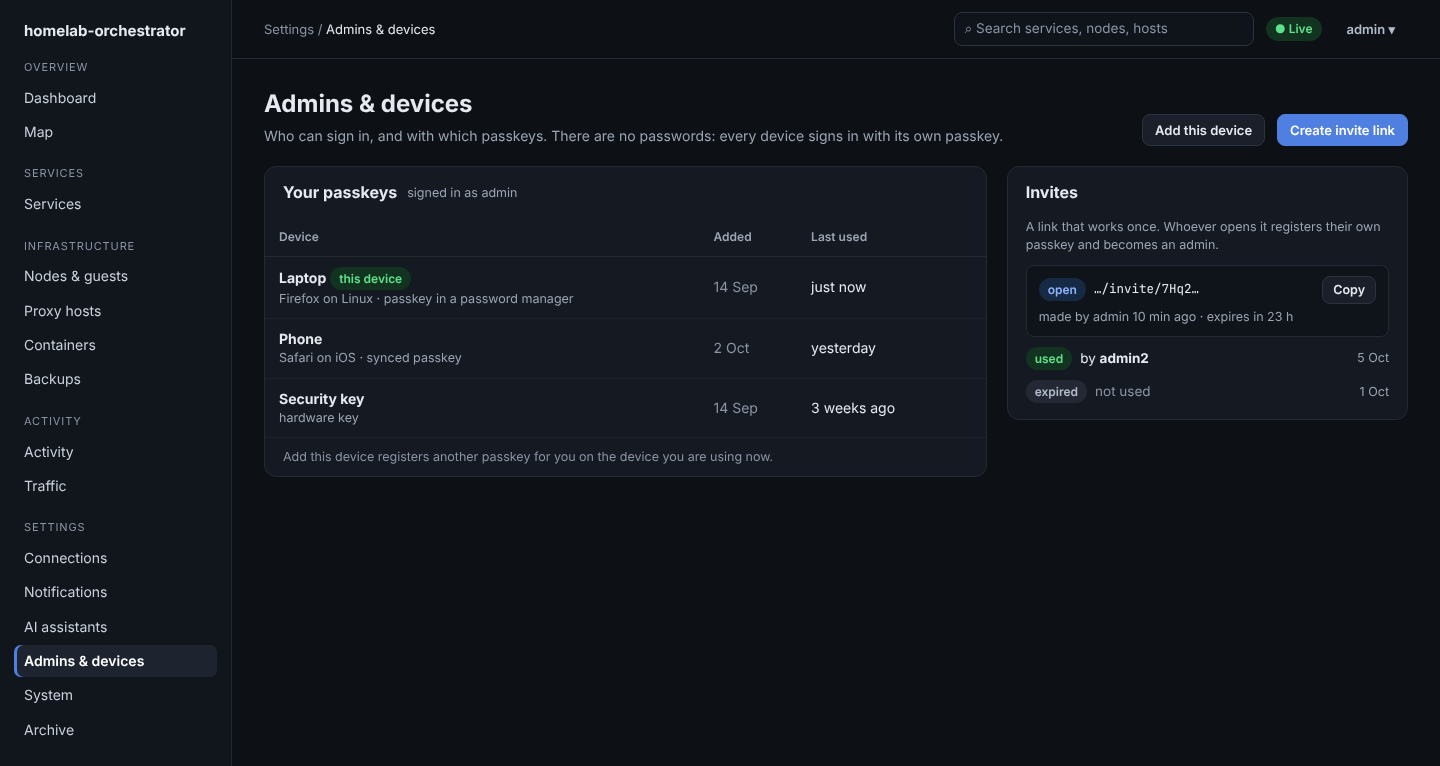
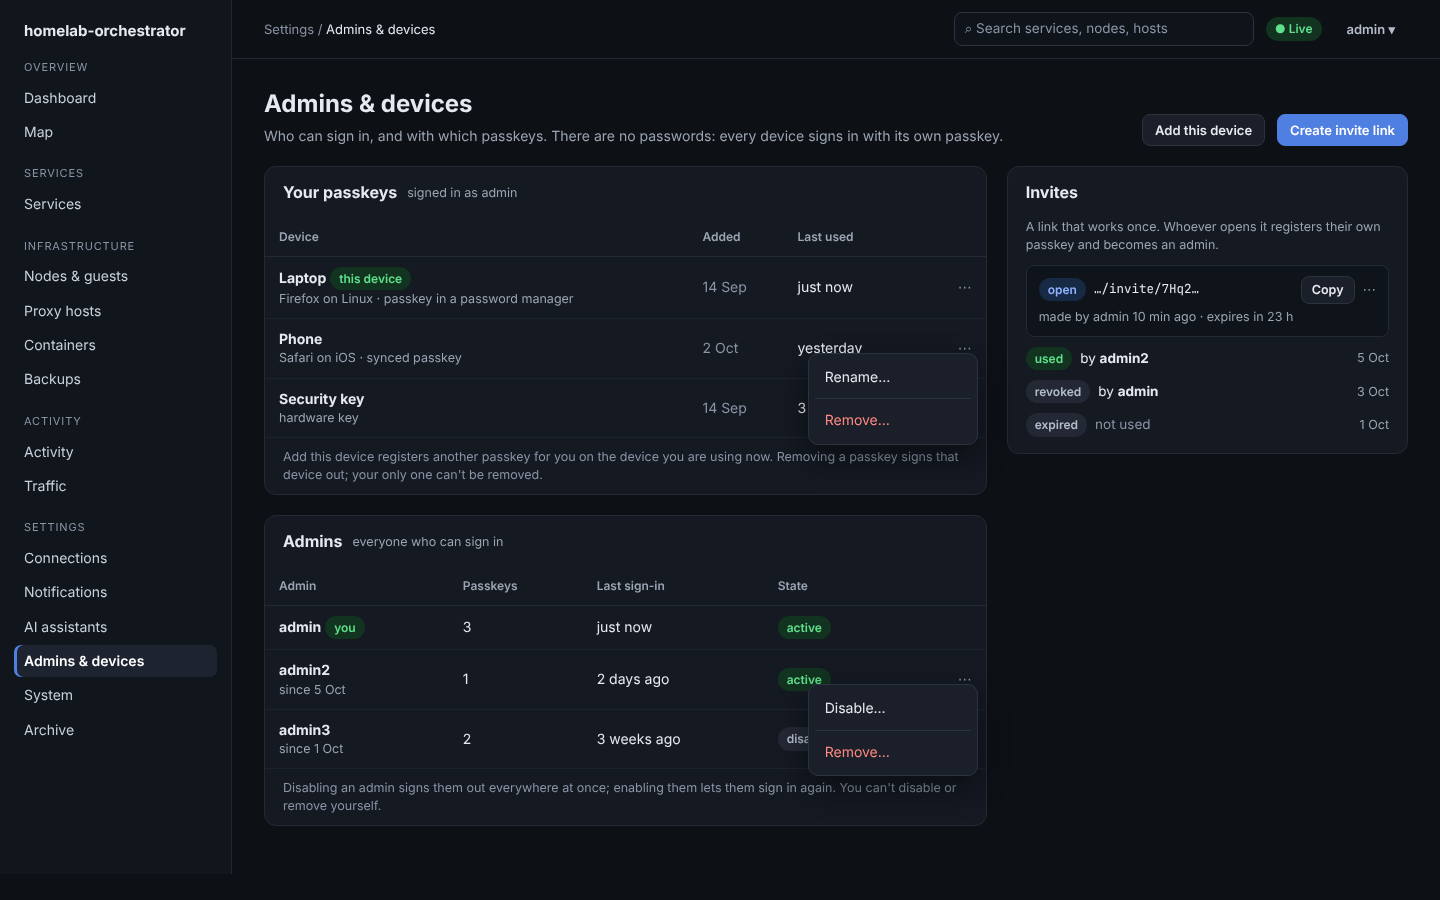
OR-56: the Admins card on Admins & devices
Every admin with their passkey count, last sign-in and state. ⋯ on
another admin: Disable… (confirm) or Enable, and Remove… (type the name
to confirm). Your own row has no ⋯.

- Approved wireframe: docs/design/wireframes/Admins (source, HTML,
  PNG). It also shows the ⋯ on passkeys and invites, and the "revoked"
  invite state.
- ui.js table: a `menuFor` option, for tables where only some rows get
  a ⋯.

Claude-Session: https://claude.ai/code/session_01GN4g3WgyD6DjEKAZRWkroa

diff --git a/docs/design/wireframes/source/Admins.dc.html b/docs/design/wireframes/source/Admins.dc.html
@@ -87,27 +87,52 @@ tr.selrow td{background:#16233a}
         <button class="btn primary" type="button">Create invite link</button>
       </div>
       <div style="display: flex; flex-wrap: wrap; gap: 20px; align-items: flex-start">
-        <section class="card" style="flex: 2 1 560px; min-width: 0">
+        <div style="flex: 2 1 560px; min-width: 0; display: flex; flex-direction: column; gap: 20px">
+        <section class="card">
           <div class="card-h"><h2>Your passkeys</h2><span class="sub">signed in as admin</span></div>
           <table>
             <thead><tr><th>Device</th><th>Added</th><th>Last used</th><th></th></tr></thead>
             <tbody>
-              <tr><td><strong>Laptop</strong> <span class="pill ok">this device</span><div class="sub">Firefox on Linux · passkey in a password manager</div></td><td class="faint">14 Sep</td><td>just now</td><td></td></tr>
-              <tr><td><strong>Phone</strong><div class="sub">Safari on iOS · synced passkey</div></td><td class="faint">2 Oct</td><td>yesterday</td><td></td></tr>
-              <tr><td><strong>Security key</strong><div class="sub">hardware key</div></td><td class="faint">14 Sep</td><td>3 weeks ago</td><td></td></tr>
+              <tr><td><strong>Laptop</strong> <span class="pill ok">this device</span><div class="sub">Firefox on Linux · passkey in a password manager</div></td><td class="faint">14 Sep</td><td>just now</td><td class="faint" style="text-align: right">⋯</td></tr>
+              <tr><td><strong>Phone</strong><div class="sub">Safari on iOS · synced passkey</div></td><td class="faint">2 Oct</td><td>yesterday</td><td style="text-align: right; position: relative"><span class="faint">⋯</span>
+                <div style="position: absolute; right: 8px; top: 34px; z-index: 2; width: 170px; background: #1a1f29; border: 1px solid #2c3340; border-radius: 10px; padding: 6px; box-shadow: 0 12px 30px rgba(0,0,0,.45); text-align: left">
+                  <div style="padding: 7px 10px; border-radius: 6px">Rename…</div>
+                  <div style="height: 1px; background: #2c3340; margin: 4px 0"></div>
+                  <div style="padding: 7px 10px; border-radius: 6px; color: #ff8a82">Remove…</div>
+                </div></td></tr>
+              <tr><td><strong>Security key</strong><div class="sub">hardware key</div></td><td class="faint">14 Sep</td><td>3 weeks ago</td><td class="faint" style="text-align: right">⋯</td></tr>
             </tbody>
           </table>
-          <div style="padding: 10px 18px; font-size: 12.5px; color: #8a94a5">Add this device registers another passkey for you on the device you are using now.</div>
+          <div style="padding: 10px 18px; font-size: 12.5px; color: #8a94a5">Add this device registers another passkey for you on the device you are using now. Removing a passkey signs that device out; your only one can't be removed.</div>
         </section>
+        <section class="card">
+          <div class="card-h"><h2>Admins</h2><span class="sub">everyone who can sign in</span></div>
+          <table>
+            <thead><tr><th>Admin</th><th>Passkeys</th><th>Last sign-in</th><th>State</th><th></th></tr></thead>
+            <tbody>
+              <tr><td><strong>admin</strong> <span class="pill ok">you</span></td><td>3</td><td>just now</td><td><span class="pill ok">active</span></td><td></td></tr>
+              <tr><td><strong>admin2</strong><div class="sub">since 5 Oct</div></td><td>1</td><td>2 days ago</td><td><span class="pill ok">active</span></td><td style="text-align: right; position: relative"><span class="faint">⋯</span>
+                <div style="position: absolute; right: 8px; top: 34px; z-index: 2; width: 170px; background: #1a1f29; border: 1px solid #2c3340; border-radius: 10px; padding: 6px; box-shadow: 0 12px 30px rgba(0,0,0,.45); text-align: left">
+                  <div style="padding: 7px 10px; border-radius: 6px">Disable…</div>
+                  <div style="height: 1px; background: #2c3340; margin: 4px 0"></div>
+                  <div style="padding: 7px 10px; border-radius: 6px; color: #ff8a82">Remove…</div>
+                </div></td></tr>
+              <tr><td><strong>admin3</strong><div class="sub">since 1 Oct</div></td><td>2</td><td>3 weeks ago</td><td><span class="pill off">disabled</span></td><td class="faint" style="text-align: right">⋯</td></tr>
+            </tbody>
+          </table>
+          <div style="padding: 10px 18px; font-size: 12.5px; color: #8a94a5">Disabling an admin signs them out everywhere at once; enabling them lets them sign in again. You can't disable or remove yourself.</div>
+        </section>
+        </div>
         <section class="card" style="flex: 1 1 320px; min-width: 0">
           <div class="card-h"><h2>Invites</h2></div>
           <div style="padding: 0 18px 16px; display: grid; gap: 10px; font-size: 13.5px">
             <div class="sub">A link that works once. Whoever opens it registers their own passkey and becomes an admin.</div>
             <div style="padding: 10px 12px; background: #0f131a; border: 1px solid #232a36; border-radius: 8px">
-              <div style="display: flex; align-items: center; gap: 8px"><span class="pill pending">open</span><span class="mono" style="overflow: hidden; text-overflow: ellipsis">…/invite/7Hq2…</span><button class="btn small" type="button" style="margin-left: auto">Copy</button></div>
+              <div style="display: flex; align-items: center; gap: 8px"><span class="pill pending">open</span><span class="mono" style="overflow: hidden; text-overflow: ellipsis">…/invite/7Hq2…</span><button class="btn small" type="button" style="margin-left: auto">Copy</button><span class="faint">⋯</span></div>
               <div class="sub" style="margin-top: 4px">made by admin 10 min ago · expires in 23 h</div>
             </div>
             <div style="display: flex; align-items: center; gap: 8px"><span class="pill ok">used</span><span>by <strong>admin2</strong></span><span class="sub" style="margin-left: auto">5 Oct</span></div>
+            <div style="display: flex; align-items: center; gap: 8px"><span class="pill off">revoked</span><span>by <strong>admin</strong></span><span class="sub" style="margin-left: auto">3 Oct</span></div>
             <div style="display: flex; align-items: center; gap: 8px"><span class="pill off">expired</span><span class="faint">not used</span><span class="sub" style="margin-left: auto">1 Oct</span></div>
           </div>
         </section>
@@ -117,7 +142,7 @@ tr.selrow td{background:#16233a}
 
 </div>
 </x-dc>
-<script type="text/x-dc" data-dc-script data-props='{"$preview":{"width":1440,"height":760}}'>
+<script type="text/x-dc" data-dc-script data-props='{"$preview":{"width":1440,"height":900}}'>
 class Component extends DCLogic {
   renderVals() {
     const cur = "Admins & devices";

diff --git a/docs/design/wireframes/Admins.html b/docs/design/wireframes/Admins.html
@@ -134,27 +134,52 @@ tr.selrow td{background:#16233a}
         <button class="btn primary" type="button">Create invite link</button>
       </div>
       <div style="display: flex; flex-wrap: wrap; gap: 20px; align-items: flex-start">
-        <section class="card" style="flex: 2 1 560px; min-width: 0">
+        <div style="flex: 2 1 560px; min-width: 0; display: flex; flex-direction: column; gap: 20px">
+        <section class="card">
           <div class="card-h"><h2>Your passkeys</h2><span class="sub">signed in as admin</span></div>
           <table>
             <thead><tr><th>Device</th><th>Added</th><th>Last used</th><th></th></tr></thead>
             <tbody>
-              <tr><td><strong>Laptop</strong> <span class="pill ok">this device</span><div class="sub">Firefox on Linux · passkey in a password manager</div></td><td class="faint">14 Sep</td><td>just now</td><td></td></tr>
-              <tr><td><strong>Phone</strong><div class="sub">Safari on iOS · synced passkey</div></td><td class="faint">2 Oct</td><td>yesterday</td><td></td></tr>
-              <tr><td><strong>Security key</strong><div class="sub">hardware key</div></td><td class="faint">14 Sep</td><td>3 weeks ago</td><td></td></tr>
+              <tr><td><strong>Laptop</strong> <span class="pill ok">this device</span><div class="sub">Firefox on Linux · passkey in a password manager</div></td><td class="faint">14 Sep</td><td>just now</td><td class="faint" style="text-align: right">⋯</td></tr>
+              <tr><td><strong>Phone</strong><div class="sub">Safari on iOS · synced passkey</div></td><td class="faint">2 Oct</td><td>yesterday</td><td style="text-align: right; position: relative"><span class="faint">⋯</span>
+                <div style="position: absolute; right: 8px; top: 34px; z-index: 2; width: 170px; background: #1a1f29; border: 1px solid #2c3340; border-radius: 10px; padding: 6px; box-shadow: 0 12px 30px rgba(0,0,0,.45); text-align: left">
+                  <div style="padding: 7px 10px; border-radius: 6px">Rename…</div>
+                  <div style="height: 1px; background: #2c3340; margin: 4px 0"></div>
+                  <div style="padding: 7px 10px; border-radius: 6px; color: #ff8a82">Remove…</div>
+                </div></td></tr>
+              <tr><td><strong>Security key</strong><div class="sub">hardware key</div></td><td class="faint">14 Sep</td><td>3 weeks ago</td><td class="faint" style="text-align: right">⋯</td></tr>
             </tbody>
           </table>
-          <div style="padding: 10px 18px; font-size: 12.5px; color: #8a94a5">Add this device registers another passkey for you on the device you are using now.</div>
+          <div style="padding: 10px 18px; font-size: 12.5px; color: #8a94a5">Add this device registers another passkey for you on the device you are using now. Removing a passkey signs that device out; your only one can't be removed.</div>
         </section>
+        <section class="card">
+          <div class="card-h"><h2>Admins</h2><span class="sub">everyone who can sign in</span></div>
+          <table>
+            <thead><tr><th>Admin</th><th>Passkeys</th><th>Last sign-in</th><th>State</th><th></th></tr></thead>
+            <tbody>
+              <tr><td><strong>admin</strong> <span class="pill ok">you</span></td><td>3</td><td>just now</td><td><span class="pill ok">active</span></td><td></td></tr>
+              <tr><td><strong>admin2</strong><div class="sub">since 5 Oct</div></td><td>1</td><td>2 days ago</td><td><span class="pill ok">active</span></td><td style="text-align: right; position: relative"><span class="faint">⋯</span>
+                <div style="position: absolute; right: 8px; top: 34px; z-index: 2; width: 170px; background: #1a1f29; border: 1px solid #2c3340; border-radius: 10px; padding: 6px; box-shadow: 0 12px 30px rgba(0,0,0,.45); text-align: left">
+                  <div style="padding: 7px 10px; border-radius: 6px">Disable…</div>
+                  <div style="height: 1px; background: #2c3340; margin: 4px 0"></div>
+                  <div style="padding: 7px 10px; border-radius: 6px; color: #ff8a82">Remove…</div>
+                </div></td></tr>
+              <tr><td><strong>admin3</strong><div class="sub">since 1 Oct</div></td><td>2</td><td>3 weeks ago</td><td><span class="pill off">disabled</span></td><td class="faint" style="text-align: right">⋯</td></tr>
+            </tbody>
+          </table>
+          <div style="padding: 10px 18px; font-size: 12.5px; color: #8a94a5">Disabling an admin signs them out everywhere at once; enabling them lets them sign in again. You can't disable or remove yourself.</div>
+        </section>
+        </div>
         <section class="card" style="flex: 1 1 320px; min-width: 0">
           <div class="card-h"><h2>Invites</h2></div>
           <div style="padding: 0 18px 16px; display: grid; gap: 10px; font-size: 13.5px">
             <div class="sub">A link that works once. Whoever opens it registers their own passkey and becomes an admin.</div>
             <div style="padding: 10px 12px; background: #0f131a; border: 1px solid #232a36; border-radius: 8px">
-              <div style="display: flex; align-items: center; gap: 8px"><span class="pill pending">open</span><span class="mono" style="overflow: hidden; text-overflow: ellipsis">…/invite/7Hq2…</span><button class="btn small" type="button" style="margin-left: auto">Copy</button></div>
+              <div style="display: flex; align-items: center; gap: 8px"><span class="pill pending">open</span><span class="mono" style="overflow: hidden; text-overflow: ellipsis">…/invite/7Hq2…</span><button class="btn small" type="button" style="margin-left: auto">Copy</button><span class="faint">⋯</span></div>
               <div class="sub" style="margin-top: 4px">made by admin 10 min ago · expires in 23 h</div>
             </div>
             <div style="display: flex; align-items: center; gap: 8px"><span class="pill ok">used</span><span>by <strong>admin2</strong></span><span class="sub" style="margin-left: auto">5 Oct</span></div>
+            <div style="display: flex; align-items: center; gap: 8px"><span class="pill off">revoked</span><span>by <strong>admin</strong></span><span class="sub" style="margin-left: auto">3 Oct</span></div>
             <div style="display: flex; align-items: center; gap: 8px"><span class="pill off">expired</span><span class="faint">not used</span><span class="sub" style="margin-left: auto">1 Oct</span></div>
           </div>
         </section>

diff --git a/src/orchestrator/web/static/admins.js b/src/orchestrator/web/static/admins.js
@@ -1,7 +1,8 @@
 /* Admins & devices (templates/admins.html), to the Admins wireframe: your passkeys (the one this
- * browser uses is marked; ⋯ renames or removes one) and the invite links, open ones with Copy
- * and Revoke.
- * Data: embedded at first paint; /api/auth/credentials and /api/auth/invites after a change. */
+ * browser uses is marked; ⋯ renames or removes one), every admin (⋯ disables, enables or removes
+ * another one) and the invite links, open ones with Copy and Revoke.
+ * Data: embedded at first paint; /api/auth/credentials, /api/auth/admins and /api/auth/invites
+ * after a change. */
 (function () {
   "use strict";
   const { $, el, clear, api, fmt, region, table, drawer, confirm, menuButton } = window.UI;
@@ -71,6 +72,60 @@
     load: () => api.get("/api/auth/credentials", { suppressToast: true }),
     render: (rows) => t.setRows(rows),
     age: $("#dev-age"),
+  });
+
+  async function setDisabled(a, disable) {
+    if (disable) {
+      const ok = await confirm({
+        title: "Disable " + a.username + "?",
+        body: a.username + " can no longer sign in, and is signed out everywhere now. Enabling them later lets them sign in again.",
+        action: "Disable",
+      });
+      if (!ok) return;
+    }
+    await api.post("/api/auth/admins/" + a.id + (disable ? "/disable" : "/enable"));
+    toast(a.username + (disable ? " is disabled" : " can sign in again"), "ok");
+    admins.refresh();
+  }
+
+  async function removeAdmin(a) {
+    const ok = await confirm({
+      title: "Remove " + a.username + "?",
+      body: "Their account and all " + a.passkeys + " of their passkeys are removed, and they are signed out everywhere. To let them back in later, send a new invite.",
+      typeName: a.username,
+      action: "Remove admin",
+    });
+    if (!ok) return;
+    await api.del("/api/auth/admins/" + a.id);
+    toast(a.username + " removed", "ok");
+    admins.refresh();
+  }
+
+  const at = table($("#admins"), {
+    rows: V.admins, key: (a) => a.id, plain: true, urlState: false, noun: ["admin", "admins"],
+    sort: { key: "admin", dir: 1 },
+    name: (a) => a.username,
+    menuFor: (a) => !a.you,
+    menu: (a) => [
+      a.disabled_at
+        ? { label: "Enable", onClick: () => setDisabled(a, false) }
+        : { label: "Disable…", onClick: () => setDisabled(a, true) },
+      "-",
+      { label: "Remove…", danger: true, onClick: () => removeAdmin(a) },
+    ],
+    columns: [
+      { key: "admin", label: "Admin", sort: (a) => a.created_at,
+        render: (a) => [el("strong", {}, a.username), a.you ? [" ", el("span", { class: "pill ok" }, "you")] : el("div", { class: "faint", style: { fontSize: "12.5px" } }, "since " + fmt.short(a.created_at))] },
+      { key: "passkeys", label: "Passkeys", sort: (a) => a.passkeys, render: (a) => String(a.passkeys) },
+      { key: "used", label: "Last sign-in", sort: (a) => a.last_used_at || "", render: (a) => a.last_used_at ? el("span", { title: fmt.time(a.last_used_at) }, fmt.ago(a.last_used_at)) : el("span", { class: "faint" }, "never") },
+      { key: "state", label: "State", sort: (a) => (a.disabled_at ? 1 : 0), render: (a) => a.disabled_at ? el("span", { class: "pill off", title: "since " + fmt.time(a.disabled_at) }, "disabled") : el("span", { class: "pill ok" }, "active") },
+    ],
+    empty: { title: "No admins", text: "" },
+  });
+  const admins = region($("#admins"), {
+    initial: V.admins,
+    load: () => api.get("/api/auth/admins", { suppressToast: true }),
+    render: (rows) => at.setRows(rows),
   });
 
   const STATUS = { pending: ["pending", "open"], consumed: ["ok", "used"], approved: ["ok", "used"], expired: ["off", "expired"], denied: ["off", "revoked"] };

diff --git a/src/orchestrator/web/static/ui.js b/src/orchestrator/web/static/ui.js
@@ -483,7 +483,8 @@
   // table(container, {
   //   columns: [{key, label, sort: (r) => value | true, render: (r) => Node|string, cls, phone: "label" | false}],
   //   rows: [], key: (r) => id, search: (r) => "text to match", placeholder,
-  //   chips: [{key, label, test: (r) => bool}], menu: (r) => [items], href: (r) => url (name column link),
+  //   chips: [{key, label, test: (r) => bool}], menu: (r) => [items], menuFor: (r) => bool (rows
+  //   that get the ⋯ at all; default every row), href: (r) => url (name column link),
   //   bulk: (rows) => [{label, onClick, danger}], empty: {title, text, action: Node},
   //   sort: {key, dir: 1|-1}, noun: ["service", "services"], urlState: true, children: (r) => parentKey,
   //   groupBy: [{key: "node", label: "Node", of: (r) => "node-a"}] (adds a "Group by" select),
@@ -655,7 +656,7 @@
             "data-label": i === 0 || c.phone === false ? null : (c.phone || c.label),
           }, empty ? "" : v));
         });
-        if (o.menu) tr.append(el("td", { class: "menu-cell" }, menuButton(() => o.menu(r), "Actions for " + (o.name ? o.name(r) : k))));
+        if (o.menu) tr.append(el("td", { class: "menu-cell" }, !o.menuFor || o.menuFor(r) ? menuButton(() => o.menu(r), "Actions for " + (o.name ? o.name(r) : k)) : null));
         tbody.append(tr);
         const more = o.detail ? o.detail(r) : null;
         if (more) { tr.classList.add("expanded"); tbody.append(el("tr", { class: "detail-row" }, el("td", { colspan: span }, more))); }

diff --git a/src/orchestrator/web/templates/admins.html b/src/orchestrator/web/templates/admins.html
@@ -12,11 +12,19 @@
 <p class="page-sub">Who can sign in, and with which passkeys. There are no passwords: every device signs in with its own passkey.</p>
 
 <div class="grid-2">
-  <section class="card col-main flush" aria-labelledby="dev-h">
+  <div class="col-main stack">
+  <section class="card flush" aria-labelledby="dev-h">
     <div class="card-head"><h2 id="dev-h">Your passkeys</h2><span class="faint" style="font-size: 13px">signed in as {{ admin.username }}</span><span style="flex: 1"></span><span class="age" id="dev-age"></span></div>
     <div id="devices"></div>
-    <p class="faint card-foot">Add this device registers another passkey for you on the device you are using now.</p>
+    <p class="faint card-foot">Add this device registers another passkey for you on the device you are using now. Removing a passkey signs that device out; your only one can't be removed.</p>
   </section>
+
+  <section class="card flush" aria-labelledby="adm-h">
+    <div class="card-head"><h2 id="adm-h">Admins</h2><span class="faint" style="font-size: 13px">everyone who can sign in</span></div>
+    <div id="admins"></div>
+    <p class="faint card-foot">Disabling an admin signs them out everywhere at once; enabling them lets them sign in again. You can't disable or remove yourself.</p>
+  </section>
+  </div>
 
   <section class="card col-side" aria-labelledby="inv-h">
     <div class="card-head"><h2 id="inv-h">Invites</h2></div>

diff --git a/src/orchestrator/web/static/app.css b/src/orchestrator/web/static/app.css
@@ -223,6 +223,8 @@ section h2 { font-size: 15px; margin: 0 0 0.75rem; }
 .grid-2 { display: flex; flex-wrap: wrap; gap: 18px; align-items: flex-start; }
 .grid-2 > .col-main { flex: 999 1 560px; min-width: 0; }
 .grid-2 > .col-side { flex: 1 1 280px; min-width: 0; }
+.grid-2 > .col-main.stack { display: flex; flex-direction: column; gap: 18px; }
+.grid-2 > .col-main.stack > .card { margin: 0; }
 
 /* facts: a small definition list (node, guest, address...) */
 dl.facts { display: grid; grid-template-columns: max-content 1fr; gap: 7px 14px; margin: 0; font-size: 13.5px; }

diff --git a/tests/test_admin_management.py b/tests/test_admin_management.py
@@ -188,3 +188,11 @@ def test_the_cli_disables_and_enables_and_keeps_one_admin_active(
         assert runner.invoke(cli, ["admin", "enable", "second"]).exit_code == 0
     with Session(get_engine()) as s:
         assert all(a.disabled_at is None for a in s.exec(select(Admin)).all())
+
+
+def test_the_page_carries_every_admin(app: Any, monkeypatch: pytest.MonkeyPatch) -> None:
+    with TestClient(app) as client, TestClient(app) as other:
+        _two_admins(client, other, monkeypatch)
+        page = client.get("/admins").text
+    assert 'id="admins"' in page
+    assert '"username": "second"' in page and '"you": true' in page

diff --git a/docs/design/README.md b/docs/design/README.md
@@ -134,7 +134,7 @@ Something that is off on purpose (a node asleep, its services) is **off**, never
 | Settings: AI assistants (waiting, connections, calls) | [PNG](wireframes/Assistants.png) · [HTML](wireframes/Assistants.html) |
 | Settings: System (update, time, this orchestrator) | [PNG](wireframes/System.png) · [HTML](wireframes/System.html) |
 | Settings: Archive | [PNG](wireframes/Archive.png) · [HTML](wireframes/Archive.html) |
-| Settings: Admins & devices (passkeys, invites) | [PNG](wireframes/Admins.png) · [HTML](wireframes/Admins.html) |
+| Settings: Admins & devices (passkeys, admins, invites) | [PNG](wireframes/Admins.png) · [HTML](wireframes/Admins.html) |
 | Phone: dashboard | [PNG](wireframes/PhoneDashboard.png) · [HTML](wireframes/PhoneDashboard.html) |
 | Phone: service | [PNG](wireframes/PhoneService.png) · [HTML](wireframes/PhoneService.html) |
 

diff --git a/docs/dashboard_auth.md b/docs/dashboard_auth.md
@@ -100,7 +100,7 @@ On Settings → Admins & devices:
   * Removing the one this browser uses signs you out here.
   * Your **only** passkey cannot be removed: add another device first.
 * **Invites:** ⋯ → *Revoke…* on an open link. It stops working at once and shows as *revoked*.
-* **Other admins** (API now, page card to follow):
+* **Admins:** ⋯ on another admin → *Disable…* / *Enable* or *Remove…* (type the name to confirm). Your own row has no ⋯.
   * `POST /api/auth/admins/{id}/disable` stops them signing in and ends every session they
     have. It raises their `session_version`, so even after `/enable` they sign in afresh.
   * `DELETE /api/auth/admins/{id}` removes them and their passkeys.
